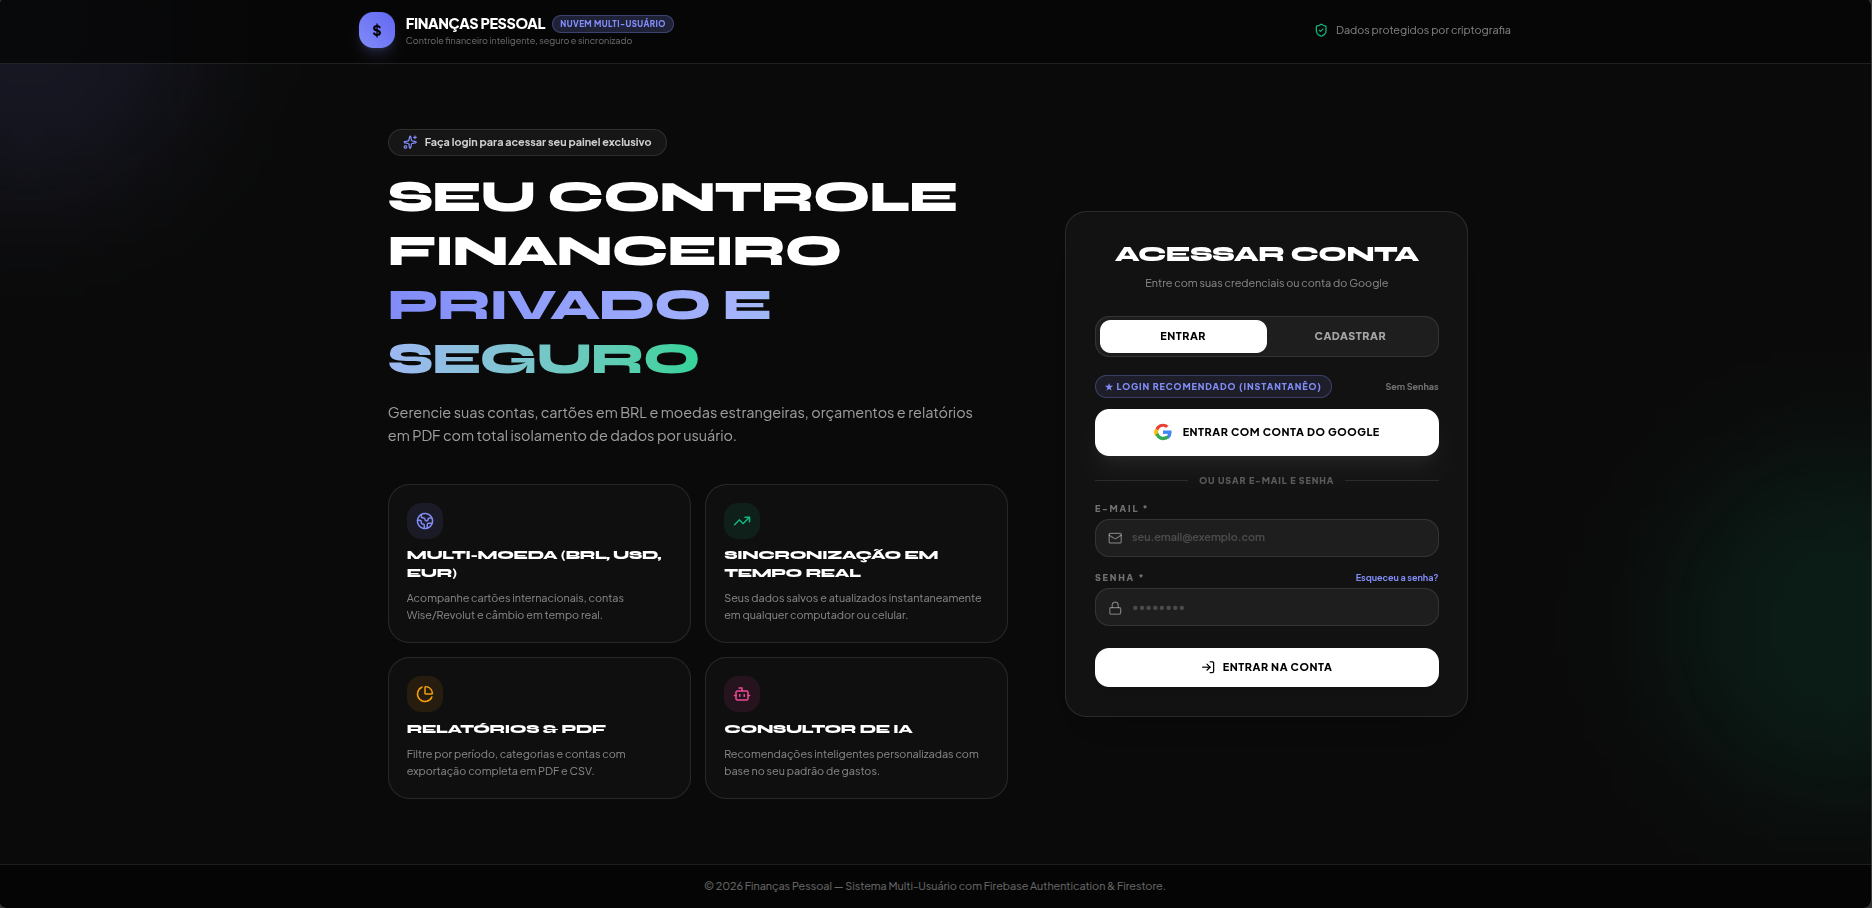
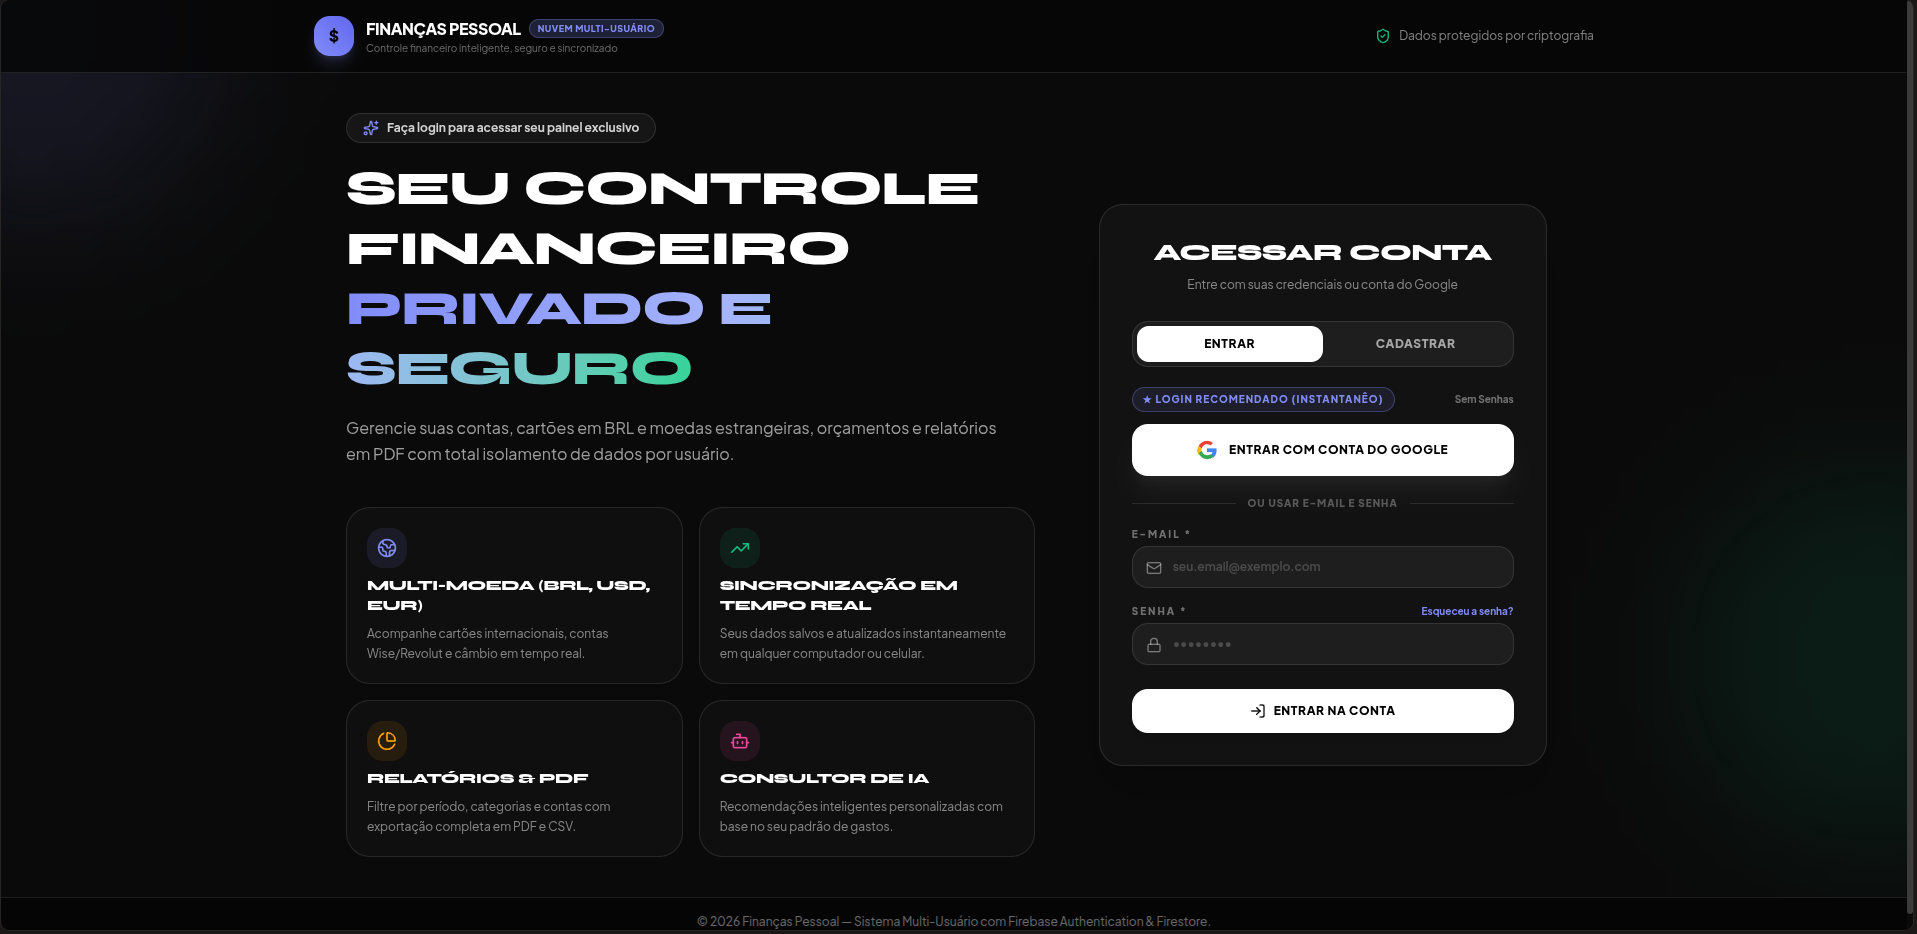
Atualiza imagens dos projetos e adiciona NetScan, ComparaJá e Sticky Notes

diff --git a/index.html b/index.html
@@ -375,6 +375,9 @@
   .thumb-vault{background:linear-gradient(135deg,#4C8EF0,#CBC0F5);}
   .thumb-financio{background:linear-gradient(135deg,#FFD84D,#FF6B57);}
   .thumb-clip{background:linear-gradient(135deg,#BDEFD6,#4C8EF0);}
+  .thumb-netscan{background:linear-gradient(135deg,#4C8EF0,#171814);}
+  .thumb-compara{background:linear-gradient(135deg,#BDEFD6,#171814);}
+  .thumb-sticky{background:linear-gradient(135deg,#FFD84D,#CBC0F5);}
   .project-card .ptitle{font-family:'Baloo 2',sans-serif;font-weight:700;font-size:1.3rem;color:var(--ink);}
   .project-card .pdesc{color:var(--text-muted);font-size:0.94rem;font-weight:500;flex-grow:1;}
   .pill-row{display:flex;flex-wrap:wrap;gap:6px;}
@@ -687,16 +690,16 @@
     <div class="project-grid">
 
       <div class="project-card reveal">
-        <div class="project-thumb thumb-vault">
-          <img src="images/vaultsecure.png" alt="Tela do VaultSecure">
-        <a class="thumb-overlay" href="https://github.com/itsbravos/VaultSecure" target="_blank" rel="noopener" aria-label="Ver repositório no GitHub"><svg viewBox="0 0 24 24" fill="none" stroke="#fff" stroke-width="1.6" stroke-linecap="round" stroke-linejoin="round"><path d="M9 19c-5 1.5-5-2.5-7-3m14 6v-3.87a3.37 3.37 0 0 0-.94-2.61c3.14-.35 6.44-1.54 6.44-7A5.44 5.44 0 0 0 20 4.77 5.07 5.07 0 0 0 19.91 1S18.73.65 16 2.48a13.38 13.38 0 0 0-7 0C6.27.65 5.09 1 5.09 1A5.07 5.07 0 0 0 5 4.77a5.44 5.44 0 0 0-1.5 3.78c0 5.42 3.3 6.61 6.44 7A3.37 3.37 0 0 0 9 18.13V22"/></svg></a></div>
-        <div class="ptitle">VaultSecure</div>
-        <p class="pdesc">Cofre de senhas local. Guarda credenciais com segurança sem depender de serviço na nuvem, o controle fica com você.</p>
+        <div class="project-thumb thumb-clip">
+          <img src="images/clipmaster.png" alt="Tela do ClipMaster for Linux">
+        <a class="thumb-overlay" href="https://github.com/itsbravos/ClipMaster-for-Linux" target="_blank" rel="noopener" aria-label="Ver repositório no GitHub"><svg viewBox="0 0 24 24" fill="none" stroke="#fff" stroke-width="1.6" stroke-linecap="round" stroke-linejoin="round"><path d="M9 19c-5 1.5-5-2.5-7-3m14 6v-3.87a3.37 3.37 0 0 0-.94-2.61c3.14-.35 6.44-1.54 6.44-7A5.44 5.44 0 0 0 20 4.77 5.07 5.07 0 0 0 19.91 1S18.73.65 16 2.48a13.38 13.38 0 0 0-7 0C6.27.65 5.09 1 5.09 1A5.07 5.07 0 0 0 5 4.77a5.44 5.44 0 0 0-1.5 3.78c0 5.42 3.3 6.61 6.44 7A3.37 3.37 0 0 0 9 18.13V22"/></svg></a></div>
+        <div class="ptitle">ClipMaster for Linux</div>
+        <p class="pdesc">Ferramenta pra quem vive no terminal e cansou de perder o que copiou: gerenciador de área de transferência feito pra Linux.</p>
         <div class="pill-row">
           <span class="pill">TypeScript</span>
-          <span class="pill">Segurança</span>
+          <span class="pill">Linux</span>
         </div>
-        <a class="pcta" href="https://github.com/itsbravos/VaultSecure" target="_blank" rel="noopener">ver repositório →</a>
+        <a class="pcta" href="https://github.com/itsbravos/ClipMaster-for-Linux" target="_blank" rel="noopener">ver repositório →</a>
       </div>
 
       <div class="project-card reveal">
@@ -713,16 +716,55 @@
       </div>
 
       <div class="project-card reveal">
-        <div class="project-thumb thumb-clip">
-          <img src="images/clipmaster.png" alt="Tela do ClipMaster for Linux">
-        <a class="thumb-overlay" href="https://github.com/itsbravos/ClipMaster-for-Linux" target="_blank" rel="noopener" aria-label="Ver repositório no GitHub"><svg viewBox="0 0 24 24" fill="none" stroke="#fff" stroke-width="1.6" stroke-linecap="round" stroke-linejoin="round"><path d="M9 19c-5 1.5-5-2.5-7-3m14 6v-3.87a3.37 3.37 0 0 0-.94-2.61c3.14-.35 6.44-1.54 6.44-7A5.44 5.44 0 0 0 20 4.77 5.07 5.07 0 0 0 19.91 1S18.73.65 16 2.48a13.38 13.38 0 0 0-7 0C6.27.65 5.09 1 5.09 1A5.07 5.07 0 0 0 5 4.77a5.44 5.44 0 0 0-1.5 3.78c0 5.42 3.3 6.61 6.44 7A3.37 3.37 0 0 0 9 18.13V22"/></svg></a></div>
-        <div class="ptitle">ClipMaster for Linux</div>
-        <p class="pdesc">Ferramenta pra quem vive no terminal e cansou de perder o que copiou: gerenciador de área de transferência feito pra Linux.</p>
+        <div class="project-thumb thumb-netscan">
+          <img src="images/netscan.png" alt="Tela do NetScan Linux">
+        <a class="thumb-overlay" href="https://github.com/itsbravos/NetScan-Linux" target="_blank" rel="noopener" aria-label="Ver repositório no GitHub"><svg viewBox="0 0 24 24" fill="none" stroke="#fff" stroke-width="1.6" stroke-linecap="round" stroke-linejoin="round"><path d="M9 19c-5 1.5-5-2.5-7-3m14 6v-3.87a3.37 3.37 0 0 0-.94-2.61c3.14-.35 6.44-1.54 6.44-7A5.44 5.44 0 0 0 20 4.77 5.07 5.07 0 0 0 19.91 1S18.73.65 16 2.48a13.38 13.38 0 0 0-7 0C6.27.65 5.09 1 5.09 1A5.07 5.07 0 0 0 5 4.77a5.44 5.44 0 0 0-1.5 3.78c0 5.42 3.3 6.61 6.44 7A3.37 3.37 0 0 0 9 18.13V22"/></svg></a></div>
+        <div class="ptitle">NetScan Linux</div>
+        <p class="pdesc">Painel de varredura e monitoramento de rede pra Linux, com autenticação de administrador protegendo o acesso.</p>
         <div class="pill-row">
           <span class="pill">TypeScript</span>
-          <span class="pill">Linux</span>
+          <span class="pill">Rede</span>
         </div>
-        <a class="pcta" href="https://github.com/itsbravos/ClipMaster-for-Linux" target="_blank" rel="noopener">ver repositório →</a>
+        <a class="pcta" href="https://github.com/itsbravos/NetScan-Linux" target="_blank" rel="noopener">ver repositório →</a>
+      </div>
+
+      <div class="project-card reveal">
+        <div class="project-thumb thumb-vault">
+          <img src="images/vaultsecure.png" alt="Tela do VaultSecure">
+        <a class="thumb-overlay" href="https://github.com/itsbravos/VaultSecure" target="_blank" rel="noopener" aria-label="Ver repositório no GitHub"><svg viewBox="0 0 24 24" fill="none" stroke="#fff" stroke-width="1.6" stroke-linecap="round" stroke-linejoin="round"><path d="M9 19c-5 1.5-5-2.5-7-3m14 6v-3.87a3.37 3.37 0 0 0-.94-2.61c3.14-.35 6.44-1.54 6.44-7A5.44 5.44 0 0 0 20 4.77 5.07 5.07 0 0 0 19.91 1S18.73.65 16 2.48a13.38 13.38 0 0 0-7 0C6.27.65 5.09 1 5.09 1A5.07 5.07 0 0 0 5 4.77a5.44 5.44 0 0 0-1.5 3.78c0 5.42 3.3 6.61 6.44 7A3.37 3.37 0 0 0 9 18.13V22"/></svg></a></div>
+        <div class="ptitle">VaultSecure</div>
+        <p class="pdesc">Cofre de senhas local. Guarda credenciais com segurança sem depender de serviço na nuvem, o controle fica com você.</p>
+        <div class="pill-row">
+          <span class="pill">TypeScript</span>
+          <span class="pill">Segurança</span>
+        </div>
+        <a class="pcta" href="https://github.com/itsbravos/VaultSecure" target="_blank" rel="noopener">ver repositório →</a>
+      </div>
+
+      <div class="project-card reveal">
+        <div class="project-thumb thumb-compara">
+          <img src="images/comparaja.png" alt="Tela do ComparaJá">
+        <a class="thumb-overlay" href="https://github.com/itsbravos/ComparaJ-" target="_blank" rel="noopener" aria-label="Ver repositório no GitHub"><svg viewBox="0 0 24 24" fill="none" stroke="#fff" stroke-width="1.6" stroke-linecap="round" stroke-linejoin="round"><path d="M9 19c-5 1.5-5-2.5-7-3m14 6v-3.87a3.37 3.37 0 0 0-.94-2.61c3.14-.35 6.44-1.54 6.44-7A5.44 5.44 0 0 0 20 4.77 5.07 5.07 0 0 0 19.91 1S18.73.65 16 2.48a13.38 13.38 0 0 0-7 0C6.27.65 5.09 1 5.09 1A5.07 5.07 0 0 0 5 4.77a5.44 5.44 0 0 0-1.5 3.78c0 5.42 3.3 6.61 6.44 7A3.37 3.37 0 0 0 9 18.13V22"/></svg></a></div>
+        <div class="ptitle">ComparaJá</div>
+        <p class="pdesc">Comparador de preços entre lojas com IA, achando a melhor oferta, cupom e frete pra cada produto. Ainda em desenvolvimento, hoje é um protótipo funcional.</p>
+        <div class="pill-row">
+          <span class="pill">TypeScript</span>
+          <span class="pill">Protótipo</span>
+        </div>
+        <a class="pcta" href="https://github.com/itsbravos/ComparaJ-" target="_blank" rel="noopener">ver repositório →</a>
+      </div>
+
+      <div class="project-card reveal">
+        <div class="project-thumb thumb-sticky">
+          <img src="images/stickynotes.png" alt="Tela do Sticky Notes">
+        <a class="thumb-overlay" href="https://github.com/itsbravos/sticky-notes" target="_blank" rel="noopener" aria-label="Ver repositório no GitHub"><svg viewBox="0 0 24 24" fill="none" stroke="#fff" stroke-width="1.6" stroke-linecap="round" stroke-linejoin="round"><path d="M9 19c-5 1.5-5-2.5-7-3m14 6v-3.87a3.37 3.37 0 0 0-.94-2.61c3.14-.35 6.44-1.54 6.44-7A5.44 5.44 0 0 0 20 4.77 5.07 5.07 0 0 0 19.91 1S18.73.65 16 2.48a13.38 13.38 0 0 0-7 0C6.27.65 5.09 1 5.09 1A5.07 5.07 0 0 0 5 4.77a5.44 5.44 0 0 0-1.5 3.78c0 5.42 3.3 6.61 6.44 7A3.37 3.37 0 0 0 9 18.13V22"/></svg></a></div>
+        <div class="ptitle">Sticky Notes</div>
+        <p class="pdesc">App de notas adesivas 100% client-side: canvas livre, modo árvore pra mapa mental, conexões entre notas e pastas, tudo sem servidor.</p>
+        <div class="pill-row">
+          <span class="pill">TypeScript</span>
+          <span class="pill">React</span>
+        </div>
+        <a class="pcta" href="https://github.com/itsbravos/sticky-notes" target="_blank" rel="noopener">ver repositório →</a>
       </div>
 
     </div>
